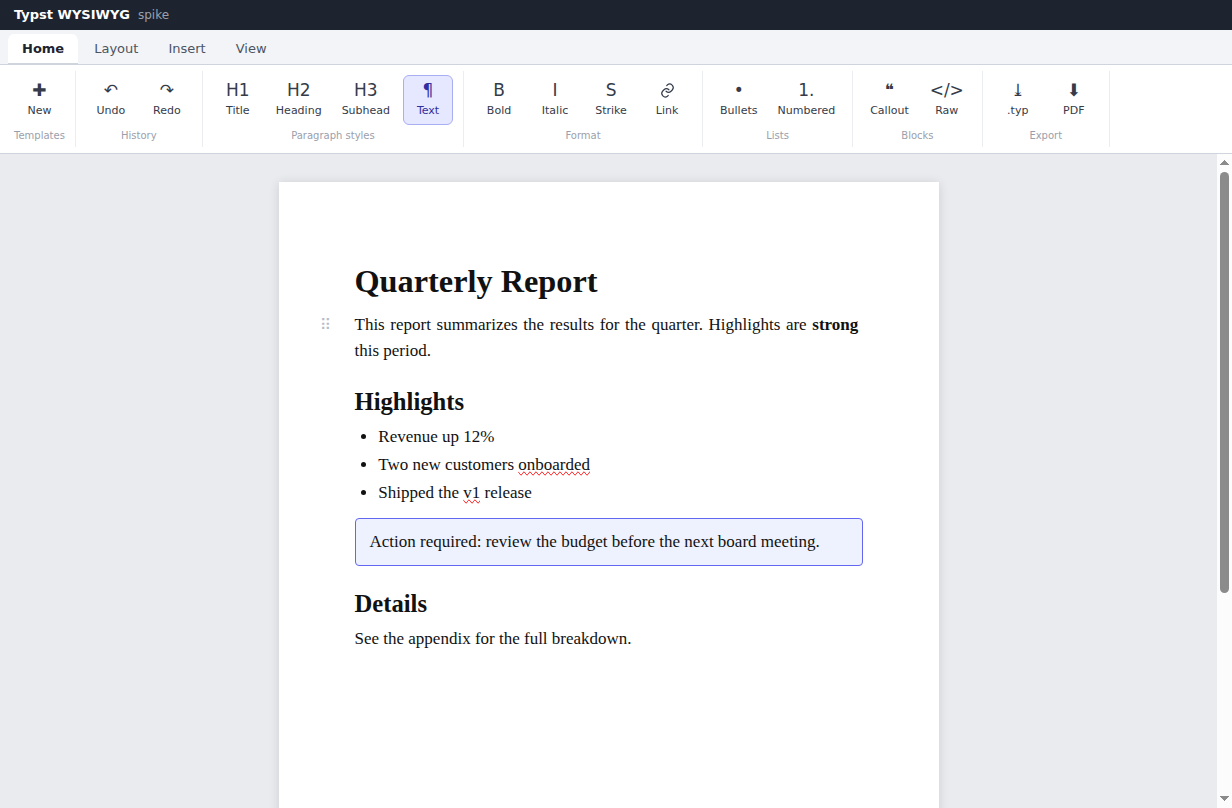
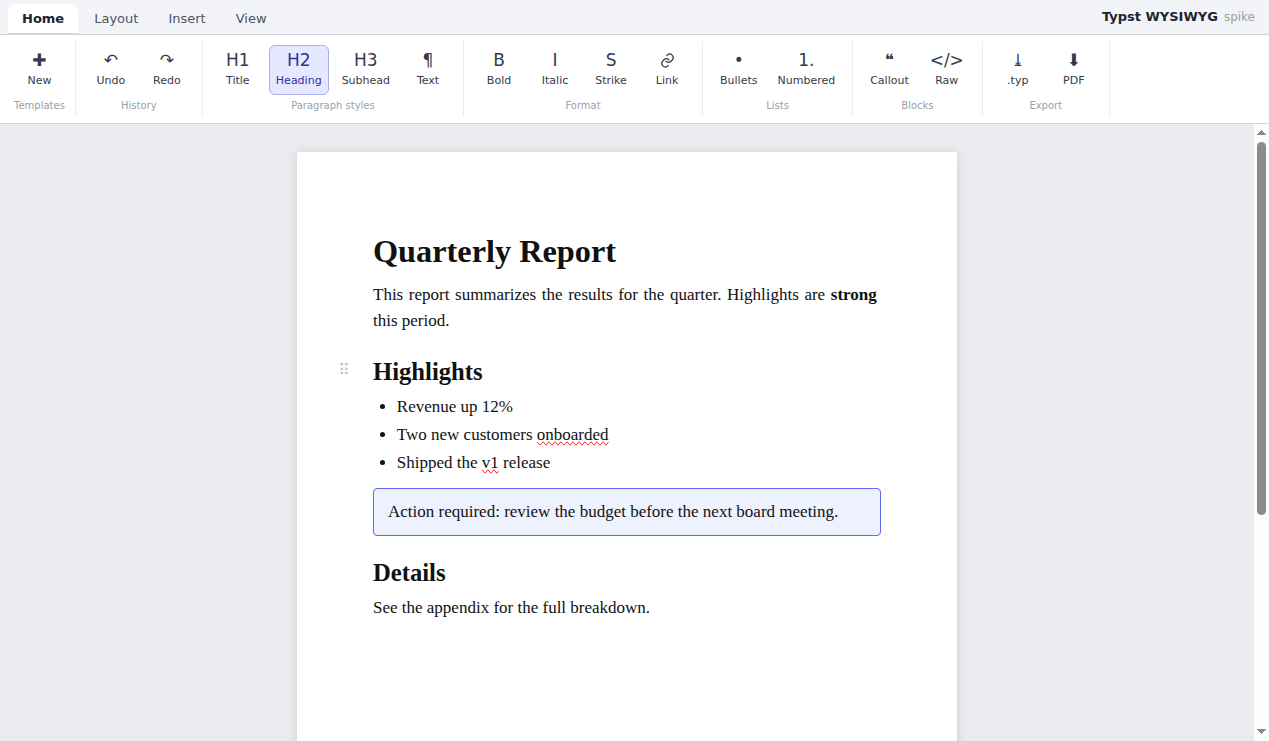
Add table support; full-width preview fidelity; compact ribbon
Roadmap: first "rich content block".

- Tables via TipTap table extensions (insert 3x3 with header, add/remove
  rows & columns, resizable), with a contextual Table group in the Insert tab.
- Serialize tables to Typst `#table(...)`; use fractional (`fr`) column widths
  so the table fills the page width like the editor, honoring resized columns
  proportionally; a full header row maps to `table.header(...)`.
- Placeholders no longer clutter empty table cells (includeChildren: false).
- Move the "Typst WYSIWYG" brand into the tab row (right side) and drop the
  separate dark title bar to save vertical space.

diff --git a/src/serialize.ts b/src/serialize.ts
@@ -92,9 +92,65 @@ function serializeBlock(node: PMNode): string {
       const inner = childrenBlocks(node).join('\n\n');
       return `#callout[\n${indentLines(inner, '  ')}\n]`;
     }
+    case 'table':
+      return serializeTable(node);
     default:
       return inline(node);
   }
+}
+
+/** A table cell's content as a Typst `[...]` (or `table.cell(..)[...]`) argument. */
+function serializeCell(cell: PMNode): string {
+  const blocks = childrenBlocks(cell);
+  const content = blocks.length === 1 ? blocks[0] : blocks.join('\n\n');
+  const colspan = (cell.attrs.colspan as number) ?? 1;
+  const rowspan = (cell.attrs.rowspan as number) ?? 1;
+  if (colspan > 1 || rowspan > 1) {
+    const spans: string[] = [];
+    if (colspan > 1) spans.push(`colspan: ${colspan}`);
+    if (rowspan > 1) spans.push(`rowspan: ${rowspan}`);
+    return `table.cell(${spans.join(', ')})[${content}]`;
+  }
+  return `[${content}]`;
+}
+
+/**
+ * Build the Typst `columns:` spec. We use fractional (`fr`) widths so the table
+ * fills the page width like it does in the editor. Resized columns keep their
+ * proportions; otherwise columns are equal (`1fr`).
+ */
+function tableColumns(firstRow: PMNode): string {
+  const widths: (number | null)[] = [];
+  firstRow.forEach((cell) => {
+    const cw = cell.attrs.colwidth as number[] | null;
+    const span = (cell.attrs.colspan as number) ?? 1;
+    for (let i = 0; i < span; i++) widths.push(cw && cw[i] ? cw[i] : null);
+  });
+  const spec = widths.some((w) => w == null)
+    ? widths.map(() => '1fr')
+    : widths.map((w) => `${w}fr`);
+  return `(${spec.join(', ')})`;
+}
+
+function serializeTable(node: PMNode): string {
+  const rows: PMNode[] = [];
+  node.forEach((r) => rows.push(r));
+  if (!rows.length) return '#table()';
+
+  const lines: string[] = [`#table(`, `  columns: ${tableColumns(rows[0])},`];
+  for (const row of rows) {
+    const cells: string[] = [];
+    let allHeader = row.childCount > 0;
+    row.forEach((cell) => {
+      if (cell.type.name !== 'tableHeader') allHeader = false;
+      cells.push(serializeCell(cell));
+    });
+    // A full header row uses Typst's `table.header(...)` for proper semantics.
+    if (allHeader) lines.push(`  table.header(${cells.join(', ')}),`);
+    else lines.push(`  ${cells.join(', ')},`);
+  }
+  lines.push(`)`);
+  return lines.join('\n');
 }
 
 function childrenBlocks(node: PMNode): string[] {

diff --git a/src/main.ts b/src/main.ts
@@ -66,9 +66,10 @@ const pageEl = el('div', { class: 'page' });
 canvasWrap.append(pageEl);
 
 function mountEditor(content: object): void {
+  const refreshContextual = () => { if (activeTab === 'home' || activeTab === 'insert') renderRibbon(); };
   editor = createEditor(pageEl, content as never, {
-    onUpdate: () => { schedulePreview(); if (activeTab === 'home') renderRibbon(); },
-    onSelection: () => { if (activeTab === 'home') renderRibbon(); },
+    onUpdate: () => { schedulePreview(); refreshContextual(); },
+    onSelection: refreshContextual,
   });
   installBlockHandle(editor, pageEl);
   syncJustify();
@@ -97,10 +98,6 @@ const ribbonBody = el('div', { class: 'ribbon-body' });
 
 function ribbon(): HTMLElement {
   const bar = el('div', { class: 'ribbon' });
-  const title = el('div', { class: 'titlebar' },
-    el('span', { class: 'app' }, 'Typst WYSIWYG'),
-    el('span', { class: 'muted' }, 'spike'),
-  );
   const tabs = el('div', { class: 'tabstrip' });
   const tabDefs: [typeof activeTab, string][] = [
     ['home', 'Home'], ['layout', 'Layout'], ['insert', 'Insert'], ['view', 'View'],
@@ -110,7 +107,12 @@ function ribbon(): HTMLElement {
     t.onclick = () => { activeTab = id; renderRibbon(); };
     tabs.append(t);
   }
-  bar.append(title, tabs, ribbonBody);
+  // Brand sits on the right of the tab row — no separate title bar.
+  tabs.append(
+    el('span', { class: 'tab-spacer' }),
+    el('span', { class: 'brand' }, el('span', { class: 'app' }, 'Typst WYSIWYG'), el('span', { class: 'muted' }, 'spike')),
+  );
+  bar.append(tabs, ribbonBody);
   return bar;
 }
 
@@ -135,6 +137,7 @@ function rbtn(icon: string, label: string, onClick: () => void, active = false):
 }
 
 const LINK_ICON = '<svg viewBox="0 0 24 24" width="17" height="17" fill="none" stroke="currentColor" stroke-width="1.7" stroke-linecap="round" stroke-linejoin="round"><path d="M10 13a5 5 0 0 0 7 0l2-2a5 5 0 0 0-7-7l-1 1"/><path d="M14 11a5 5 0 0 0-7 0l-2 2a5 5 0 0 0 7 7l1-1"/></svg>';
+const TABLE_ICON = '<svg viewBox="0 0 24 24" width="17" height="17" fill="none" stroke="currentColor" stroke-width="1.6" stroke-linecap="round" stroke-linejoin="round"><rect x="3" y="4" width="18" height="16" rx="1.5"/><path d="M3 10h18M3 15h18M9 4v16M15 4v16"/></svg>';
 function rfield(label: string, control: Node): HTMLElement {
   return el('label', { class: 'rfield' }, el('span', {}, label), control);
 }
@@ -189,8 +192,8 @@ function ribbonGroups(): Node[] {
         group('Paragraph', rfield('Leading em', num(s.par.leadingEm, (v) => (s.par.leadingEm = v), 0.05)), just),
       ];
     }
-    case 'insert':
-      return [
+    case 'insert': {
+      const groups: Node[] = [
         group('Blocks',
           rbtn('H', 'Heading', () => cmd((c) => c.insertContent({ type: 'heading', attrs: { level: 2 }, content: [{ type: 'text', text: 'Heading' }] }))),
           rbtn('¶', 'Text', () => cmd((c) => c.insertContent('<p></p>'))),
@@ -199,11 +202,25 @@ function ribbonGroups(): Node[] {
           rbtn('❝', 'Callout', () => cmd((c) => c.insertContent({ type: 'callout', content: [{ type: 'paragraph' }] }))),
           rbtn('</>', 'Raw Typst', () => cmd((c) => c.insertContent({ type: 'codeBlock', content: [{ type: 'text', text: '#lorem(20)' }] }))),
         ),
-        group('Logic',
-          rbtn('ƒ', 'Definitions', openDefinitionsModal),
-          rbtn('✦', 'Show rules', openShowModal),
+        group('Insert',
+          rbtn(TABLE_ICON, 'Table', () => cmd((c) => c.insertTable({ rows: 3, cols: 3, withHeaderRow: true }))),
         ),
       ];
+      if (editor.isActive('table')) {
+        groups.push(group('Table',
+          rbtn('▤+', 'Row', () => cmd((c) => c.addRowAfter())),
+          rbtn('▤−', 'Del row', () => cmd((c) => c.deleteRow())),
+          rbtn('▥+', 'Col', () => cmd((c) => c.addColumnAfter())),
+          rbtn('▥−', 'Del col', () => cmd((c) => c.deleteColumn())),
+          rbtn('✕', 'Delete', () => cmd((c) => c.deleteTable())),
+        ));
+      }
+      groups.push(group('Logic',
+        rbtn('ƒ', 'Definitions', openDefinitionsModal),
+        rbtn('✦', 'Show rules', openShowModal),
+      ));
+      return groups;
+    }
     case 'view':
       return [
         group('Show', rbtn('▦', previewVisible ? 'Hide preview' : 'Show preview', togglePreview, previewVisible)),

diff --git a/src/styles.css b/src/styles.css
@@ -21,13 +21,11 @@ select, input[type=text], input[type=number], textarea {
 
 /* ---- ribbon ---- */
 .ribbon { background: #f3f4f7; border-bottom: 1px solid #d0d4dc; user-select: none; }
-.titlebar {
-  display: flex; align-items: baseline; gap: 8px;
-  background: #1e2330; color: #fff; padding: 6px 14px;
-}
-.titlebar .app { font-weight: 600; font-size: 13px; }
 
-.tabstrip { display: flex; gap: 2px; padding: 4px 8px 0; }
+.tabstrip { display: flex; align-items: center; gap: 2px; padding: 4px 8px 0; }
+.tab-spacer { flex: 1; }
+.brand { display: flex; align-items: baseline; gap: 6px; padding: 0 6px 4px; }
+.brand .app { font-weight: 600; font-size: 13px; color: #1e2330; }
 .tab {
   border: none; background: none; padding: 6px 14px; border-radius: 6px 6px 0 0;
   color: #4b5563; font-size: 13px; cursor: pointer;
@@ -97,6 +95,15 @@ select, input[type=text], input[type=number], textarea {
 .page pre code { font: inherit; color: inherit; }
 .page code { background: #eef0f4; border-radius: 3px; padding: 0 4px; font-family: ui-monospace, monospace; font-size: .9em; }
 .ProseMirror-selectednode { outline: 2px solid #a8aef2; }
+
+/* tables */
+.page table { border-collapse: collapse; margin: 0 0 .9em; width: 100%; table-layout: fixed; overflow: hidden; }
+.page table td, .page table th { border: 1px solid #cdd2dc; padding: 5px 8px; vertical-align: top; position: relative; }
+.page table th { background: #f3f4f7; font-weight: 700; text-align: left; }
+.page table p { margin: 0; }
+.page .selectedCell:after { content: ''; position: absolute; inset: 0; background: rgba(79,70,229,.12); pointer-events: none; }
+.page .column-resize-handle { position: absolute; right: -2px; top: 0; bottom: 0; width: 4px; background: #6366f1; pointer-events: none; }
+.ProseMirror.resize-cursor { cursor: col-resize; }
 
 /* six-dot block handle + its menu */
 .pm-handle {

diff --git a/src/editor.ts b/src/editor.ts
@@ -12,6 +12,10 @@ import { Editor, Node, mergeAttributes, type Content } from '@tiptap/core';
 import StarterKit from '@tiptap/starter-kit';
 import Link from '@tiptap/extension-link';
 import Placeholder from '@tiptap/extension-placeholder';
+import Table from '@tiptap/extension-table';
+import TableRow from '@tiptap/extension-table-row';
+import TableHeader from '@tiptap/extension-table-header';
+import TableCell from '@tiptap/extension-table-cell';
 
 export const Callout = Node.create({
   name: 'callout',
@@ -40,8 +44,13 @@ export function createEditor(element: HTMLElement, content: Content, hooks: Edit
         // codeBlock is kept and reused as the raw-Typst block.
       }),
       Link.configure({ openOnClick: false, autolink: true }),
+      Table.configure({ resizable: true }),
+      TableRow,
+      TableHeader,
+      TableCell,
       Placeholder.configure({
-        includeChildren: true,
+        // Only the top-level empty block gets a hint — not every empty cell.
+        includeChildren: false,
         placeholder: ({ node }) => {
           if (node.type.name === 'heading') return `Heading ${node.attrs.level}`;
           if (node.type.name === 'codeBlock') return 'Raw Typst…';

diff --git a/README.md b/README.md
@@ -52,6 +52,8 @@ an icon.
 - **ProseMirror-backed WYSIWYG editing** with real selection, clipboard, undo/redo and
   markdown-style input rules.
 - **Inline formatting**: bold, italic, strike, links.
+- **Tables** — editable (add/remove rows & columns, resizable), full-width, serialized
+  to `#table(...)`.
 - **Block handle** (⠿) for changing block type, moving, inserting and deleting.
 - Structured **`#show` rule editor** (restyle headings, emphasis, links, …) and a
   **`#let` definitions** editor.
@@ -100,9 +102,7 @@ Roughly in priority order. The first group is the most-requested missing content
 
 ### Rich content blocks (highest priority)
 
-- **Tables** — an editable table block (add/remove rows & columns, header row,
-  alignment) serialized to Typst `#table(...)`. Today tables are only possible via the
-  raw-Typst escape hatch.
+- ✅ **Tables** — done (editable, resizable, full-width, `#table(...)`).
 - **Pictures / images** — an image block with upload/drag-in, plus asset handling, and a
   **figure** wrapper (caption + label) → `#figure(image("..."), caption: [...])`.
 - **Equations / math** — inline and block math editing → Typst `$ ... $`, ideally with a